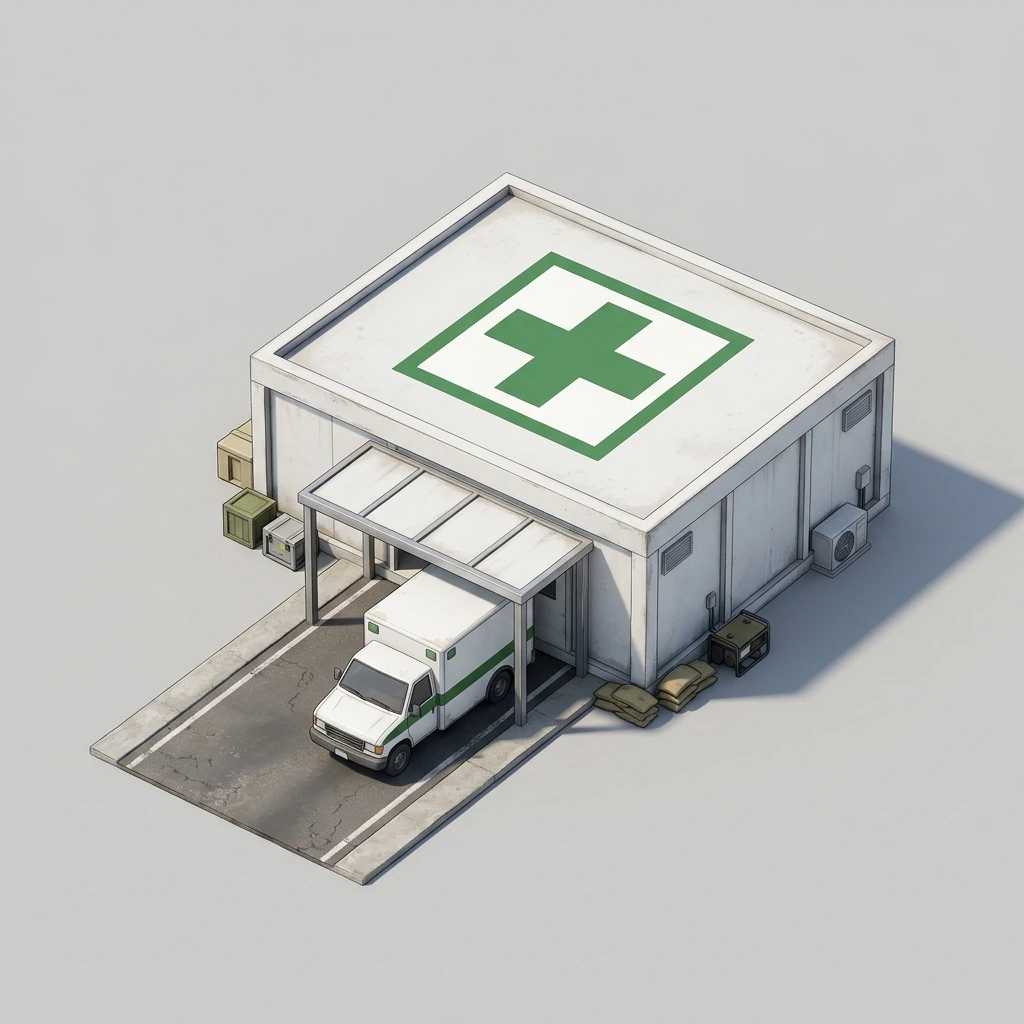
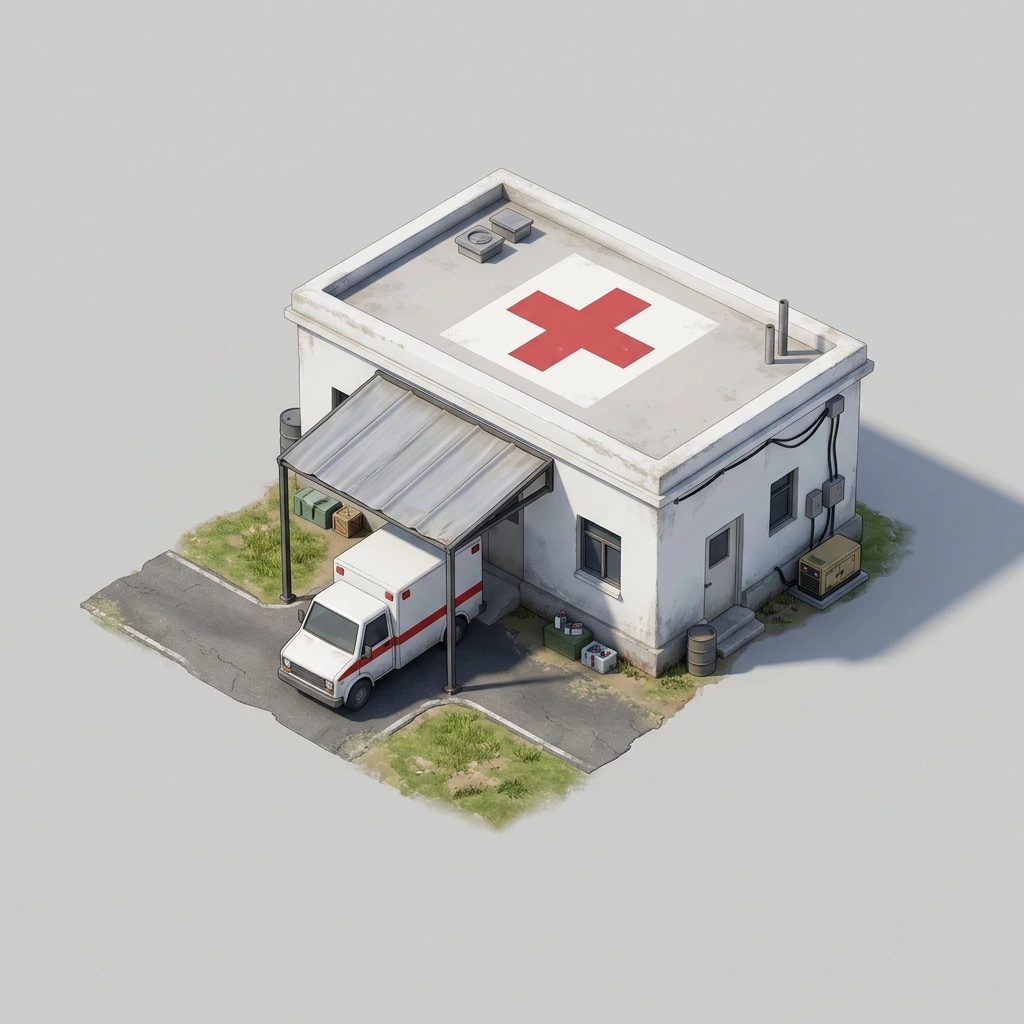
Art v2: hospital level 1 remade with a red cross (owner's choice, 2026-11-16)
Claude-Session: https://claude.ai/code/session_01KVGBc2Umi6eiR6tSvLXXtJ

Changed region(s): [[0.0625, 0.1562, 1.0, 0.875]]

diff --git a/tools/gen-art.py b/tools/gen-art.py
@@ -627,8 +627,8 @@ SUBJECTS['v2-recruiting-office-1'] = (
     "and a large glass front, a covered entrance, a flagpole without a flag, a short paved path in front with a small "
     "green lawn strip, and one parked olive-green jeep." + V2_SCALE)
 SUBJECTS['v2-hospital-1'] = (
-    "A small military field hospital, level 1 of 5: one single-storey white building with a flat roof and a large GREEN "
-    "cross on a white square on the roof (never red), a covered ambulance entrance, one white ambulance with a green "
+    "A small military field hospital, level 1 of 5: one single-storey white building with a flat roof and a large RED "
+    "cross on a white square on the roof (owner's choice, 2026-11-16), a covered ambulance entrance, one white ambulance with a red "
     "stripe parked in front, and a short paved path." + V2_SCALE)
 SUBJECTS['v2-fortifications-1'] = (
     "A defensive fortification as a cutaway, level 1 of 5: a rounded chunk of ground lifted out and cut open on its front "
